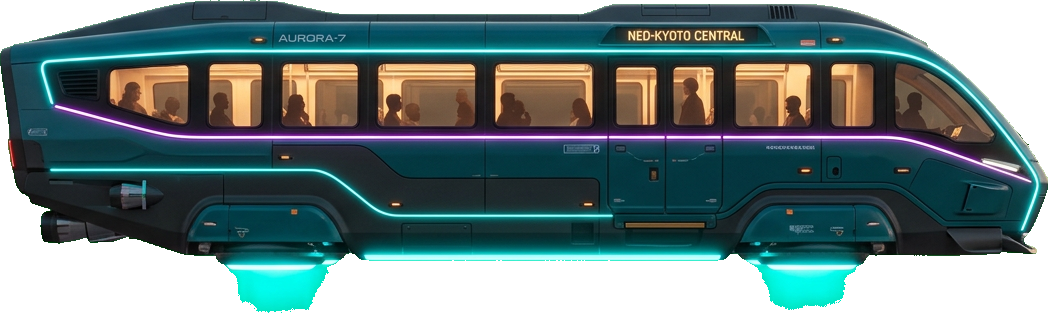
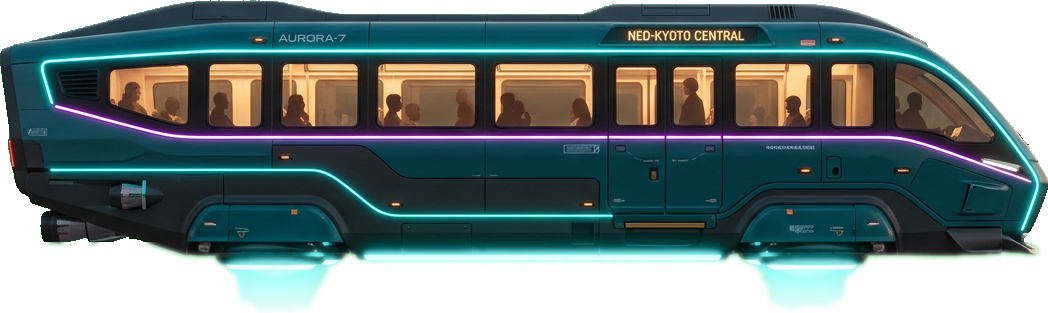
Done! Both fixes are live in the Cyberscape:
**1. Smooth entry** — the bus was starting its flight at `-24vw`, which on narrower windows wasn't far enough left to hide a 300px sprite, so it "popped" in. It now starts fully off-screen (`-24vw - 340px`) and glides slowly into view every cycle.

**2. Engine-powered glow** — three layers replace the old solid look:
- The **baked-in solid teal cones** in the sprite itself were softened (vertical fade from 62% → 6% opacity + fuzzed edges), so nothing reads as a hard shape anymore
- Two **engine plumes** under the hover pods now pulse in an irregular rhythm — stretching and brightening downward from the pods (like thrust output varying), each at a different tempo (1.1s / 1.35s, offset) so they never sync
- A broad **haze** underneath breathes slowly (2.6s) to tie it together

You can see it in the preview — the underglow now flickers and swells like the engines are actually producing it. FF_BUILD bumped to 421. Want the plumes more intense/faster, or subtler?

Changed region(s): [[0.1221, 0.7764, 1.0, 1.0], [0.0305, 0.7764, 0.0611, 0.8051]]

diff --git a/frontend/src/components/scenes/AmbianceScene.jsx b/frontend/src/components/scenes/AmbianceScene.jsx
@@ -515,8 +515,14 @@ export function AmbianceScene({ theme, cfg, heistEpoch = 0 }) {
       {cfg.rain && <div className="absolute inset-0 ff-rain" />}
       {cfg.cars && CYBER_CARS.map((c, i) => (
         <div key={`car-${i}`} className={`absolute left-0 ${c.bus ? "z-[5]" : c.bus2 ? "z-[2]" : c.spinner ? "z-[4]" : "z-[3]"}`}
-          style={{ top: mobile ? c.topM : c.top, willChange: "transform", backfaceVisibility: "hidden", WebkitBackfaceVisibility: "hidden", animation: `${c.rev ? "ffFlyRev" : "ffFly"} ${c.dur}s linear ${c.delay}s infinite both` }}>
-          {c.bus && <span className="pointer-events-none absolute bottom-0 left-1/2 -translate-x-1/2" style={{ width: "60%", height: "42%", background: "radial-gradient(ellipse at center, rgba(34,224,224,0.7) 0%, rgba(34,224,224,0.32) 44%, rgba(34,224,224,0) 72%)", filter: "blur(5px)" }} />}
+          style={{ top: mobile ? c.topM : c.top, willChange: "transform", backfaceVisibility: "hidden", WebkitBackfaceVisibility: "hidden", animation: `${c.bus ? "ffFlyBus" : c.rev ? "ffFlyRev" : "ffFly"} ${c.dur}s linear ${c.delay}s infinite both` }}>
+          {c.bus && (<>
+            {/* broad soft under-glow, breathing slowly */}
+            <span className="pointer-events-none absolute" style={{ left: "20%", bottom: "-2%", width: "60%", height: "40%", transformOrigin: "50% 0%", background: "radial-gradient(ellipse at center, rgba(34,224,224,0.4) 0%, rgba(34,224,224,0.18) 46%, rgba(34,224,224,0) 72%)", filter: "blur(9px)", animation: "ffThrusterHaze 2.6s ease-in-out infinite" }} />
+            {/* engine plumes under each hover pod (pods sit ~26% / ~77% across the sprite) */}
+            <span className="pointer-events-none absolute" style={{ left: "20%", bottom: "-6%", width: "13%", height: "36%", transformOrigin: "50% 0%", background: "radial-gradient(ellipse at 50% 18%, rgba(150,255,246,0.9) 0%, rgba(34,224,224,0.5) 40%, rgba(34,224,224,0) 74%)", filter: "blur(6px)", animation: "ffThrusterPlume 1.1s ease-in-out infinite" }} />
+            <span className="pointer-events-none absolute" style={{ left: "70.5%", bottom: "-6%", width: "13%", height: "36%", transformOrigin: "50% 0%", background: "radial-gradient(ellipse at 50% 18%, rgba(150,255,246,0.9) 0%, rgba(34,224,224,0.5) 40%, rgba(34,224,224,0) 74%)", filter: "blur(6px)", animation: "ffThrusterPlume 1.35s ease-in-out -0.45s infinite" }} />
+          </>)}}
           <img src={c.bus ? cfg.bus : (c.bus2 ? cfg.bus2 : (c.spinner ? cfg.spinner : (c.rev ? cfg.cars2 : cfg.cars)))} alt="" className="relative block object-contain opacity-90"
             style={{ width: c.size, filter: c.bus ? "none" : `drop-shadow(0 0 ${c.spinner ? 12 : 8}px rgba(34,224,224,${c.spinner ? 0.65 : 0.5}))`, ...(c.bus ? { maskImage: "linear-gradient(to bottom, #000 72%, rgba(0,0,0,0.68) 90%, rgba(0,0,0,0.48) 100%)", WebkitMaskImage: "linear-gradient(to bottom, #000 72%, rgba(0,0,0,0.68) 90%, rgba(0,0,0,0.48) 100%)" } : {}) }} />
         </div>

diff --git a/frontend/src/index.css b/frontend/src/index.css
@@ -446,6 +446,33 @@ body {
   75%  { transform: translateX(92vw) translateY(-12px); }
   100% { transform: translateX(126vw) translateY(4px); }
 }
+
+/* Close-up bus is 300px wide — plain -24vw isn't fully off-screen on narrow
+   windows, so it "popped" into view. Enter from beyond the sprite's width. */
+@keyframes ffFlyBus {
+  0%   { transform: translateX(calc(-24vw - 340px)) translateY(0); }
+  25%  { transform: translateX(24vw) translateY(-16px); }
+  50%  { transform: translateX(58vw) translateY(8px); }
+  75%  { transform: translateX(92vw) translateY(-12px); }
+  100% { transform: translateX(126vw) translateY(4px); }
+}
+
+/* Bus hover thrusters: the engine's output visibly varies — each plume
+   stretches/brightens from its pod (transform-origin top) in an irregular
+   rhythm, while a broad haze breathes slowly underneath. */
+@keyframes ffThrusterPlume{
+  0%   { opacity: .5;  transform: scaleY(.9)  scaleX(1); }
+  16%  { opacity: .95; transform: scaleY(1.22) scaleX(1.06); }
+  32%  { opacity: .45; transform: scaleY(.86)  scaleX(.96); }
+  55%  { opacity: .85; transform: scaleY(1.12) scaleX(1.03); }
+  74%  { opacity: .5;  transform: scaleY(.92)  scaleX(.97); }
+  88%  { opacity: .9;  transform: scaleY(1.18) scaleX(1.05); }
+  100% { opacity: .5;  transform: scaleY(.9)  scaleX(1); }
+}
+@keyframes ffThrusterHaze{
+  0%, 100% { opacity: .35; transform: scaleY(1); }
+  50%      { opacity: .7;  transform: scaleY(1.15); }
+}
 /* Reaper ambiance — broad low-lying atmospheric haze + rising smoke plumes */
 /* Night-sky darkener: deepens the top sky + a pool behind the cemetery so the
    graveyard reads clearly, while leaving the upper-left hero text zone light. */

diff --git a/frontend/public/index.html b/frontend/public/index.html
@@ -60,7 +60,7 @@
         <title>Fork·Fate — Restaurant Roulette</title>
         <script>window.addEventListener("error",function(e){if(e.error instanceof DOMException&&e.error.name==="DataCloneError"&&e.message&&e.message.includes("PerformanceServerTiming")){e.stopImmediatePropagation();e.preventDefault()}},true);</script>
         <script>(function(){try{if('serviceWorker' in navigator){window.addEventListener('load',function(){navigator.serviceWorker.register('/service-worker.js',{scope:'/'}).catch(function(){});});}}catch(e){}})();</script>
-        <script>(function(){try{var FF_BUILD="2026.06-420";var prev=localStorage.getItem("ff_build");if(prev!==FF_BUILD){localStorage.setItem("ff_build",FF_BUILD);if(window.caches&&caches.keys){caches.keys().then(function(keys){keys.forEach(function(k){caches.delete(k);});});}if(prev&&!sessionStorage.getItem("ff_build_reloaded")){sessionStorage.setItem("ff_build_reloaded","1");location.reload(true);}}}catch(e){}})();</script>
+        <script>(function(){try{var FF_BUILD="2026.06-421";var prev=localStorage.getItem("ff_build");if(prev!==FF_BUILD){localStorage.setItem("ff_build",FF_BUILD);if(window.caches&&caches.keys){caches.keys().then(function(keys){keys.forEach(function(k){caches.delete(k);});});}if(prev&&!sessionStorage.getItem("ff_build_reloaded")){sessionStorage.setItem("ff_build_reloaded","1");location.reload(true);}}}catch(e){}})();</script>
         <script src="https://assets.emergent.sh/scripts/emergent-main.js"></script>
         <!-- Google Analytics 4 -->
         <script async src="https://www.googletagmanager.com/gtag/js?id=G-4E739B8J0H"></script>

diff --git a/scripts/soften_bus_thrusters.py b/scripts/soften_bus_thrusters.py
@@ -1,0 +1,31 @@
+# Soften the two solid teal hover-thruster blobs baked into cyber-bus.png:
+# below the chassis line, bright cyan pixels get a vertical alpha fade (solid
+# cone -> wispy tail) and the alpha in that band is blurred for fuzz. The
+# animated CSS plumes then supply the "energy" motion on top.
+from PIL import Image, ImageFilter
+
+PATH = "/app/frontend/public/cyber-bus.png"
+im = Image.open(PATH).convert("RGBA")
+w, h = im.size  # 1048x313
+px = im.load()
+
+BAND_TOP = 242  # chassis underside — blobs live below this line
+
+def is_energy(r, g, b, a):
+    return a > 0 and g > 130 and b > 120 and r < g - 35  # saturated teal glow
+
+for y in range(BAND_TOP, h):
+    t = (y - BAND_TOP) / (h - BAND_TOP)  # 0 at chassis, 1 at sprite bottom
+    keep = 0.62 - 0.56 * t  # 62% alpha up top -> 6% at the tip
+    for x in range(w):
+        r, g, b, a = px[x, y]
+        if is_energy(r, g, b, a):
+            px[x, y] = (r, g, b, int(a * keep))
+
+# fuzz: blur only the energy band's alpha, then paste back
+band = im.crop((0, BAND_TOP, w, h))
+alpha = band.getchannel("A").filter(ImageFilter.GaussianBlur(2.2))
+band.putalpha(alpha)
+im.paste(band, (0, BAND_TOP))
+im.save(PATH)
+print("softened thruster blobs", im.size)
